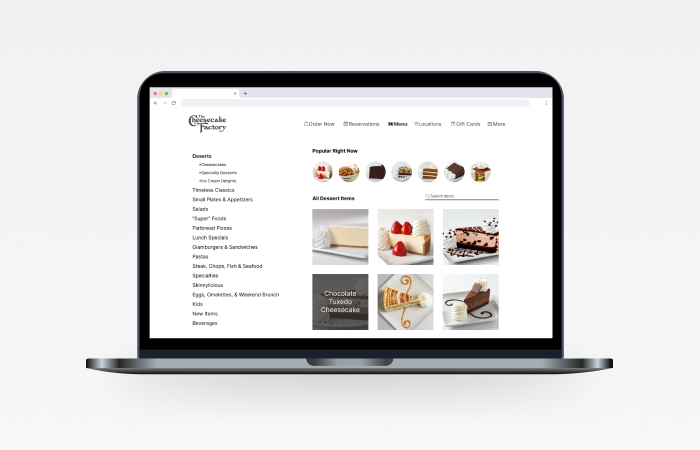
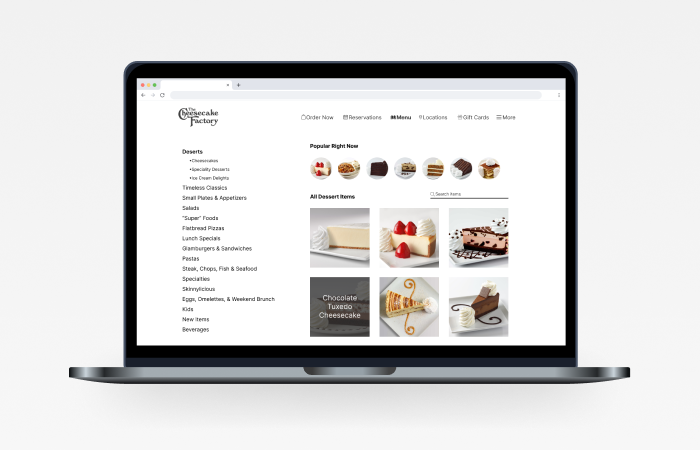
minor changes

diff --git a/site.css b/site.css
@@ -5,7 +5,7 @@
 }
 
 
-/* --------Home Page Styles-------- */
+/* Home Page Styles */
 
 body {
     font-family: 'Montserrat', sans-serif;
@@ -70,18 +70,10 @@ nav ul li h1 {
     flex-direction: row;
     font-size: 1.7vw;
     color: #333;
-    margin-left: 10px;
+    margin-left: 0.6vw;
     width: 7vw;
     margin-right: 0;
 }
-
-
-/* #nav-tag {
-    width: 20vw;
-    font-size: 1vw;
-    margin-top: 2.5vh;
-    margin-right: 58vw;
-} */
 
 .nav-margin-top {
     margin-top: 17px;
@@ -105,16 +97,6 @@ nav li a:hover {
 a {
     text-decoration: none;
     color: #333;
-}
-
-#logo {
-    font-size: 35px;
-    color: #333;
-    font-weight: 700;
-}
-
-#logo-caption {
-    color: #a7a7a7;
 }
 
 .row {
@@ -430,10 +412,10 @@ figcaption {
 }
 
 
-/* --------Media Queries-------- */
+/* Media Queries */
 
 @media screen and (min-width: 2000px) {
-    /* --------Navbar-------- */
+    /* Navbar */
     nav {
         margin-top: 3vh;
         margin-left: auto;
@@ -474,7 +456,7 @@ figcaption {
     .content {
         margin-top: 16vh;
     }
-    /* -------- Project Main -------- */
+    /* Project Main */
     .overview p,
     .empathize p,
     .define p,
@@ -485,7 +467,7 @@ figcaption {
     .final-product p {
         line-height: 2vw;
     }
-    /* -------- Research -------- */
+    /* Research */
     .header p {
         width: 20vw;
         color: #aaaaaa;
